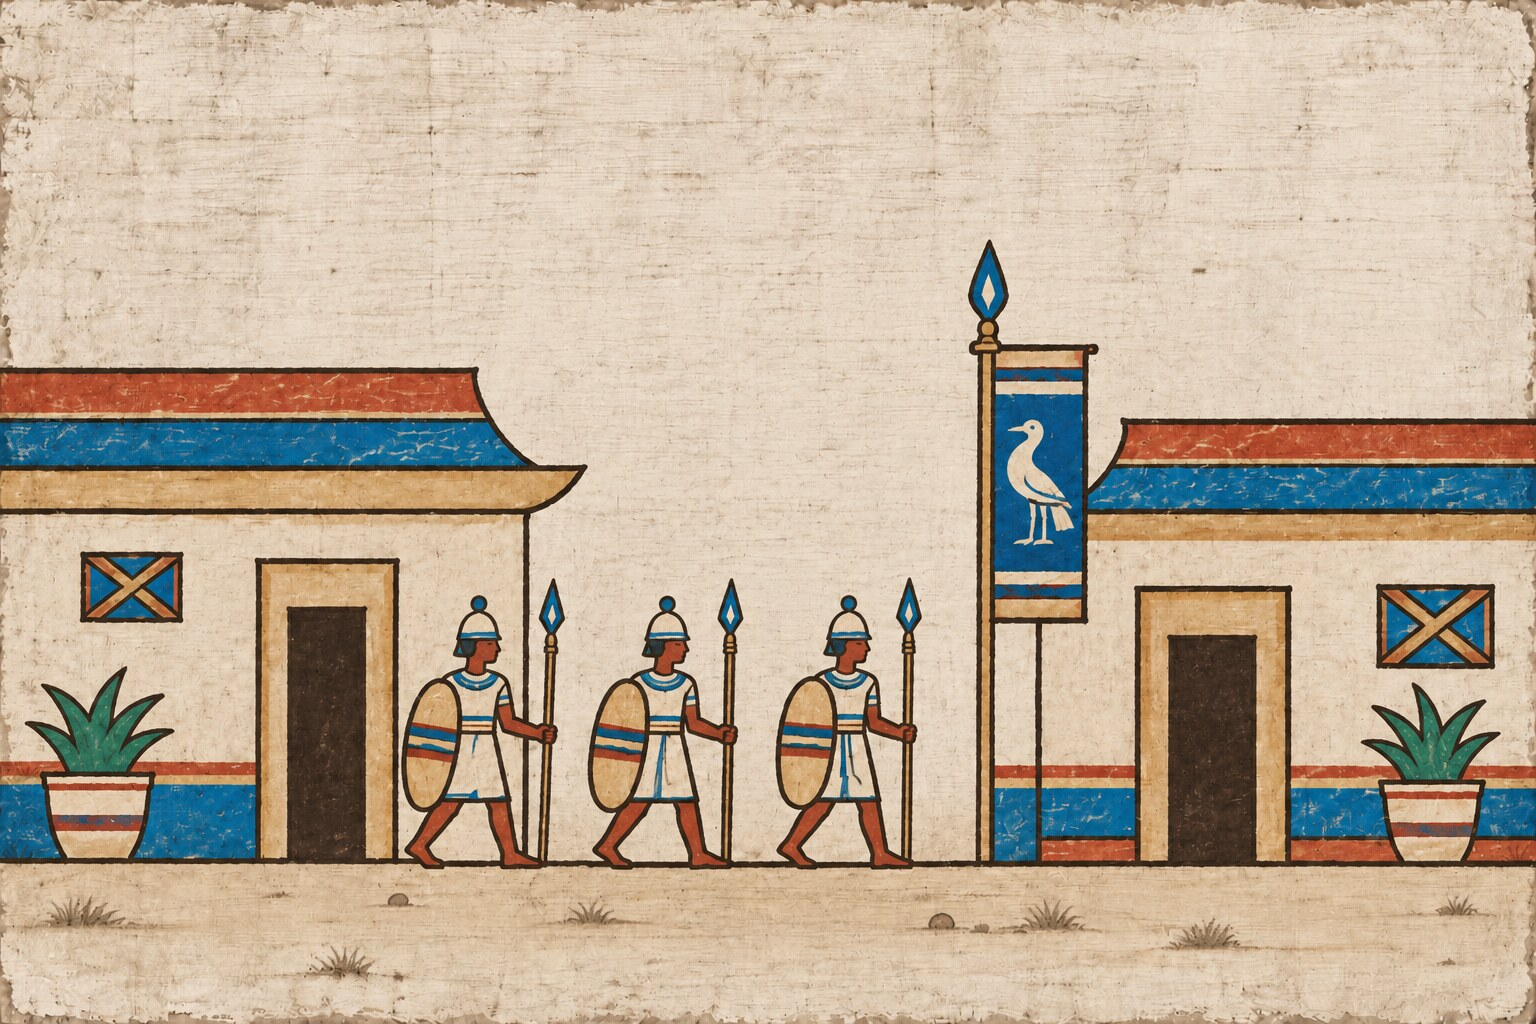
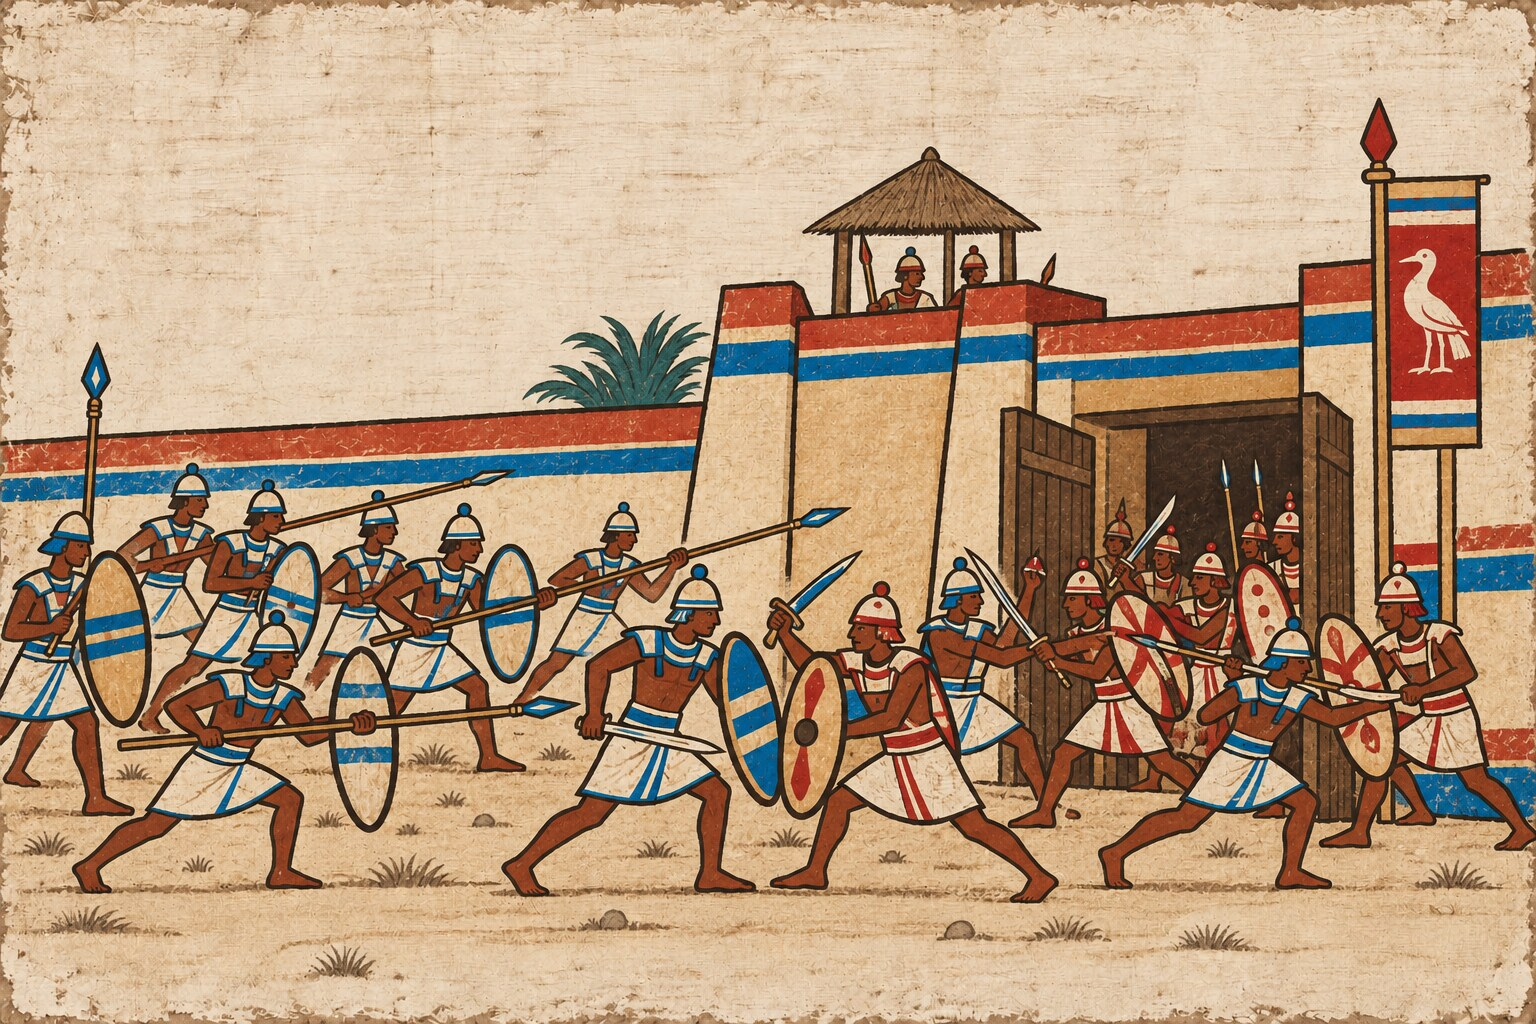
Update warrior outfits and illustrate active battles

diff --git a/docs/decisions.md b/docs/decisions.md
@@ -1,5 +1,14 @@
 # Implementation decisions
 
+## 2026-10-21 · Benin-inspired warriors and active battle scenes
+
+- The owner's warrior sketch supersedes the earlier tunic and sparse-soldier direction. Soldiers wear separate shoulder pads over bare chests and abdomens, small layered collars, diagonal straps, decorated belts, wrapped kilts, sandals and rounded caps. Vary headwear, shoulder details, cloth trim and weapons, including spears and swords, within the shared Benin City-inspired silhouette.
+- Populate army preparation with a larger assembled force. All eight battle-report images show opposing soldiers actively fighting, with supporting ranks and several distinct clashes, in one continuous landscape. Preserve the flat mineral palette, bold outlines, worn pale parchment and 3:2 compositions.
+- Preserve each report's existing perspective and military outcome: blue-accented forces represent the recipient/player, red-accented forces the enemy; a successful received attack shows the enemy prevailing. Raids remain village encounters; captures center on city gates. These decorative scenes do not assert exact troop counts, resource amounts or equipment levels.
+- Apply the same costume to Council and fortification guards and the atlas's returning soldiers. Include women as Council advisors, granary workers and the atlas's scribe; other civilian scenes can retain their existing characters. Preserve the atlas's nine scene positions and the cityscape atlas. Normalize generated atlas rows to the existing CSS thirds so adjacent scenes do not overlap their crops.
+- Replace local image assets under their existing filenames. Report selection, archived content, game rules, templates and translations are unchanged. The current gameplay reference remains accurate and needs no revision.
+- Use Presentation verification: lint/format, complete case-catalog collection, affected bilingual HTTP cases on real PostgreSQL, visual review of every revised scene and atlas cell, and the bilingual browser journey with image decoding, narrow/enlarged layouts and no-JavaScript navigation. No new logical variation is introduced by replacing decorative assets.
+
 ## 2026-10-22 · Consistent frescoes and list thumbnails
 
 - Use the supplied Council image as the visual reference: flat mineral colours, bold brown outlines, pale worn papyrus, simple architecture and sparse small figures. Retain Council, granary, forge and fortification originals that already match it; redraw the two nine-panel atlases, army preparation and all eight battle illustrations. Review figures for aligned heads, torsos and feet, separated limbs and supported objects; correct the floating raid basket and misleading held-city banner found during review.
